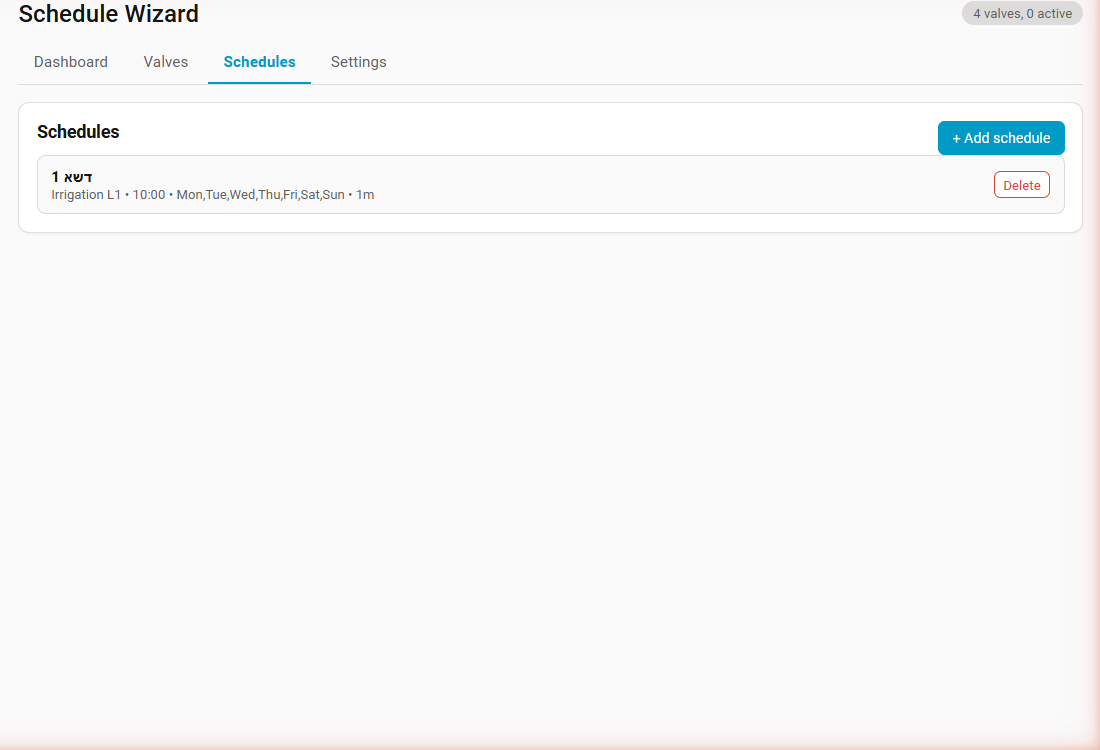
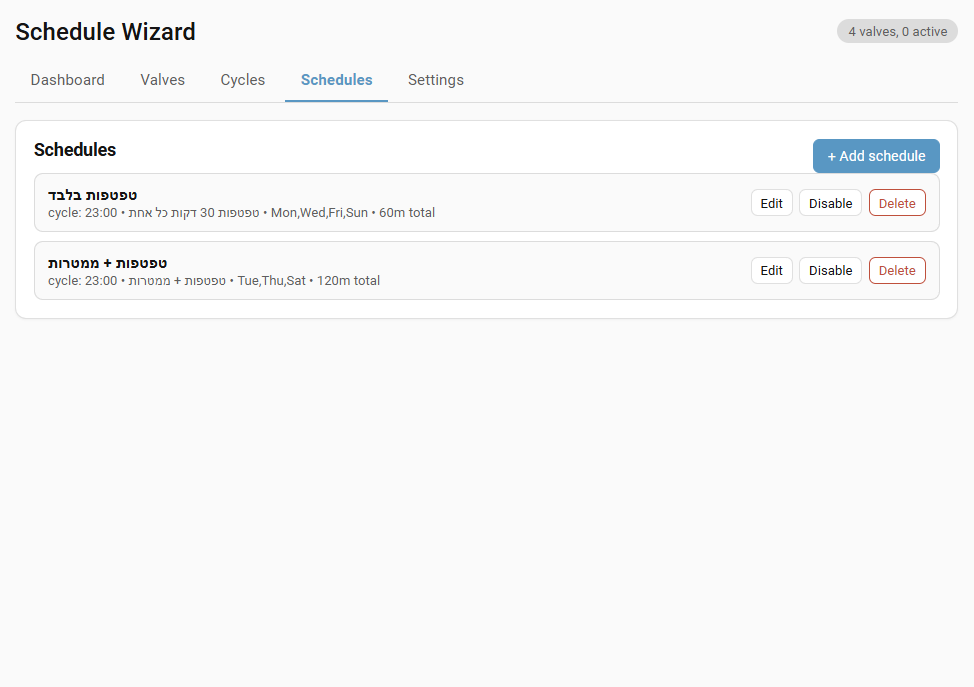
v0.7.3: refresh README screenshots for v0.7 features

diff --git a/README.md b/README.md
@@ -77,29 +77,41 @@ Minimum HA version: **2024.7.0**.
 
 ## Using the panel
 
-After install, a **Schedule Wizard** entry appears in the sidebar (sprinkler icon). Four tabs:
+After install, a **Schedule Wizard** entry appears in the sidebar (sprinkler icon). Six tabs:
 
 ### Dashboard
 
-Active runs with live progress bars, quick run/stop per valve, recent history.
+Rain delay buttons, active runs and active cycles with live progress, quick run/stop per valve with inline progress bar and next-opening hint, grouped recent activity (cycles + child valves indented).
 
 ![Dashboard tab](docs/screenshots/panel-dashboard.png)
 
 ### Valves
 
-Add / edit / delete valves. Pick any supported HA entity, set its label (used for calendar matching) and default duration.
+Add / edit / delete valves. Pick any supported HA entity, set its label (used for calendar matching) and default duration. Each row shows last run, 7-day stats, and the next scheduled opening.
 
 ![Valves tab](docs/screenshots/panel-valves.png)
 
+### Cycles
+
+Multi-valve programs (zone sequencing). Add an ordered list of `(valve, minutes)` steps. Run, pause, resume, edit, enable/disable, delete.
+
+![Cycles tab](docs/screenshots/panel-cycles.png)
+
 ### Schedules
 
-Recurring rules: pick a valve, time, days, duration.
+Recurring rules: pick a valve **or cycle**, time, days, duration. Edit / enable / disable / delete per row.
 
 ![Schedules tab](docs/screenshots/panel-schedules.png)
 
+### Reports
+
+30-day daily-minutes mini chart. Per-valve totals (7d / 30d / lifetime). Per-cycle stats. Skip-reason summary. CSV export of the full history.
+
+![Reports tab](docs/screenshots/panel-reports.png)
+
 ### Settings
 
-Calendar entity, lookahead window, poll interval, default duration. All editable here; no need to visit the Configure dialog.
+Calendar, polling, default duration, then a Show advanced toggle to access rain skip, soil moisture, seasonal adjustment, master valve / pump, fail detection, notifications, and cycle overlap.
 
 ![Settings tab](docs/screenshots/panel-settings.png)
 

diff --git a/CHANGELOG.md b/CHANGELOG.md
@@ -1,5 +1,9 @@
 # Changelog
 
+## 0.7.3 — fresh README screenshots
+
+- Refreshed all panel screenshots in the README to reflect the new tabs (Cycles, Reports), rain delay button, advanced toggle, and per-valve stats.
+
 ## 0.7.2 — Reports tab + README sync + UI spacing
 
 - **New Reports tab** in the panel:
